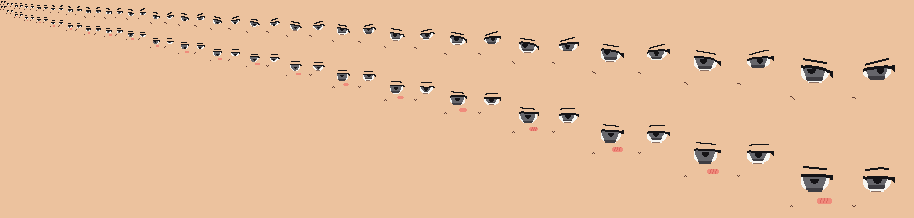
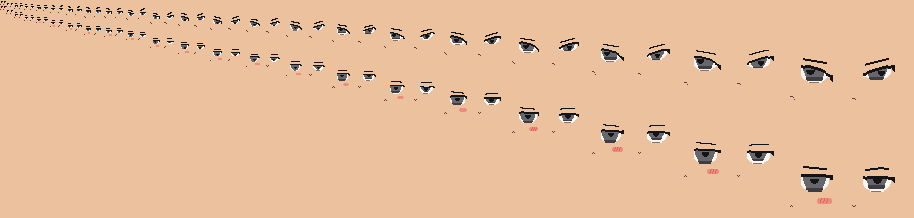
Make sad, angry and smug read apart in the default view at Off
At Pixel Size Off his half face is 33 to 42 texels in the default view,
a texel 12 to 16 px of the smooth sheet: sad's slight droop and 5 px
frown blurred into neutral, and angry's gentle slant into smug's flat
half-lid, their mouths gone under a texel. Sad's lid now droops hard
toward his ear and angry's slants hard down toward the middle, and the
three mouths that tell faces apart are 8 to 10 px strokes; both sheets
are redrawn from the design (the pixel hook stops at the white, so a
drooping lid hangs no lone pixel), and a test shrinks the cells to 42
and 33 px and holds the pairs apart.

diff --git a/docs/invitation.md b/docs/invitation.md
@@ -369,9 +369,12 @@ in the toy's own style (cream, a dark outline, chunky rounded corners, Pixelify 
   tools/newt-face-smooth.mjs` draws the smooth one (`newt-face-smooth-extra.png`, 1024) from his
   own smooth neutral face, measured into `tools/newt-face-design.mjs` and redrawn in the same
   flat, round-ended style, then edited per face (sad: brows up toward the middle, the lid
-  drooping toward his ear, the mouth turned down; angry: brows down and in, the eye narrowed, a
-  tight mouth; shy: looking down, a strong hatched blush, a small wavy mouth; smug: half-lidded,
-  a ω of a mouth; `--calibrate` puts its neutral beside the glb's to check), and `node
+  drooping hard toward his ear, the mouth turned down; angry: brows down and in, the lid slanting
+  hard down toward the middle, the eye narrowed, a tight mouth; shy: looking down, a strong
+  hatched blush, a small wavy mouth; smug: half-lidded, a ω of a mouth; each cue big enough to
+  read where his face is smallest, the default view at Off with his half face 33 to 42 texels:
+  the lid's shape, and the mouths bolder than his own; `--calibrate` puts its neutral beside the
+  glb's to check), and `node
   tools/newt-face.mjs` draws the pixel ones (`newt-face-extra.png`, `tools/newt-face-extra.mjs`)
   at every cell size: neutral's pixel face with its parts moved as the design moves them, by the
   same rules, plus what each needs to read in a few pixels (`EXTRA_PIXELS`). They show at the
